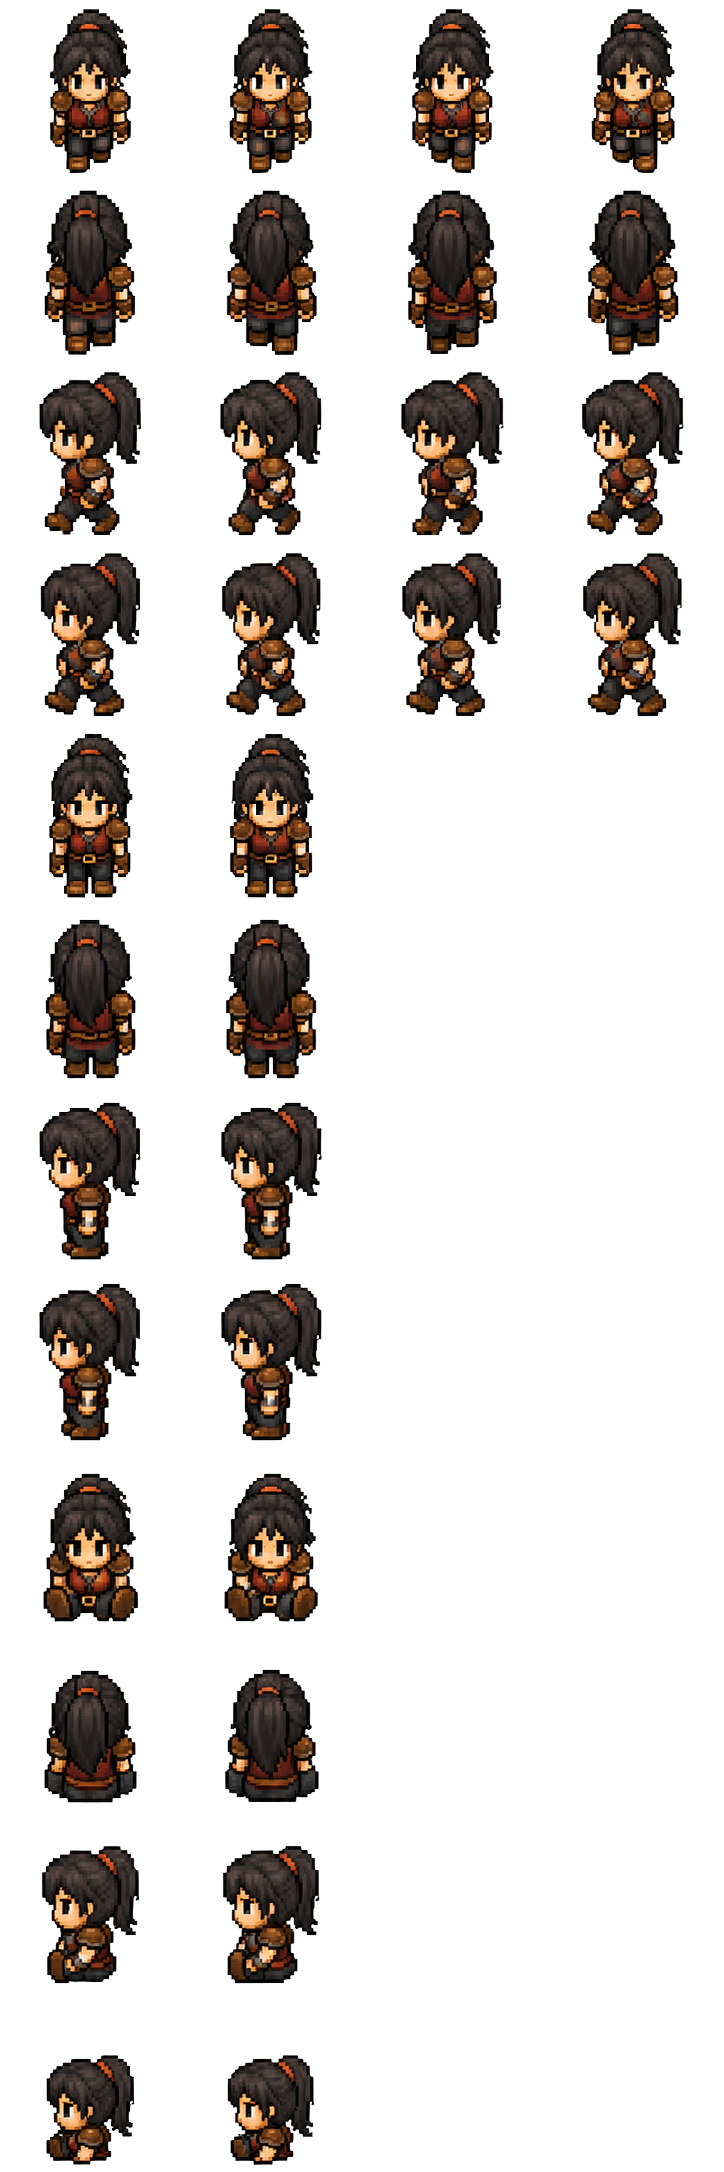
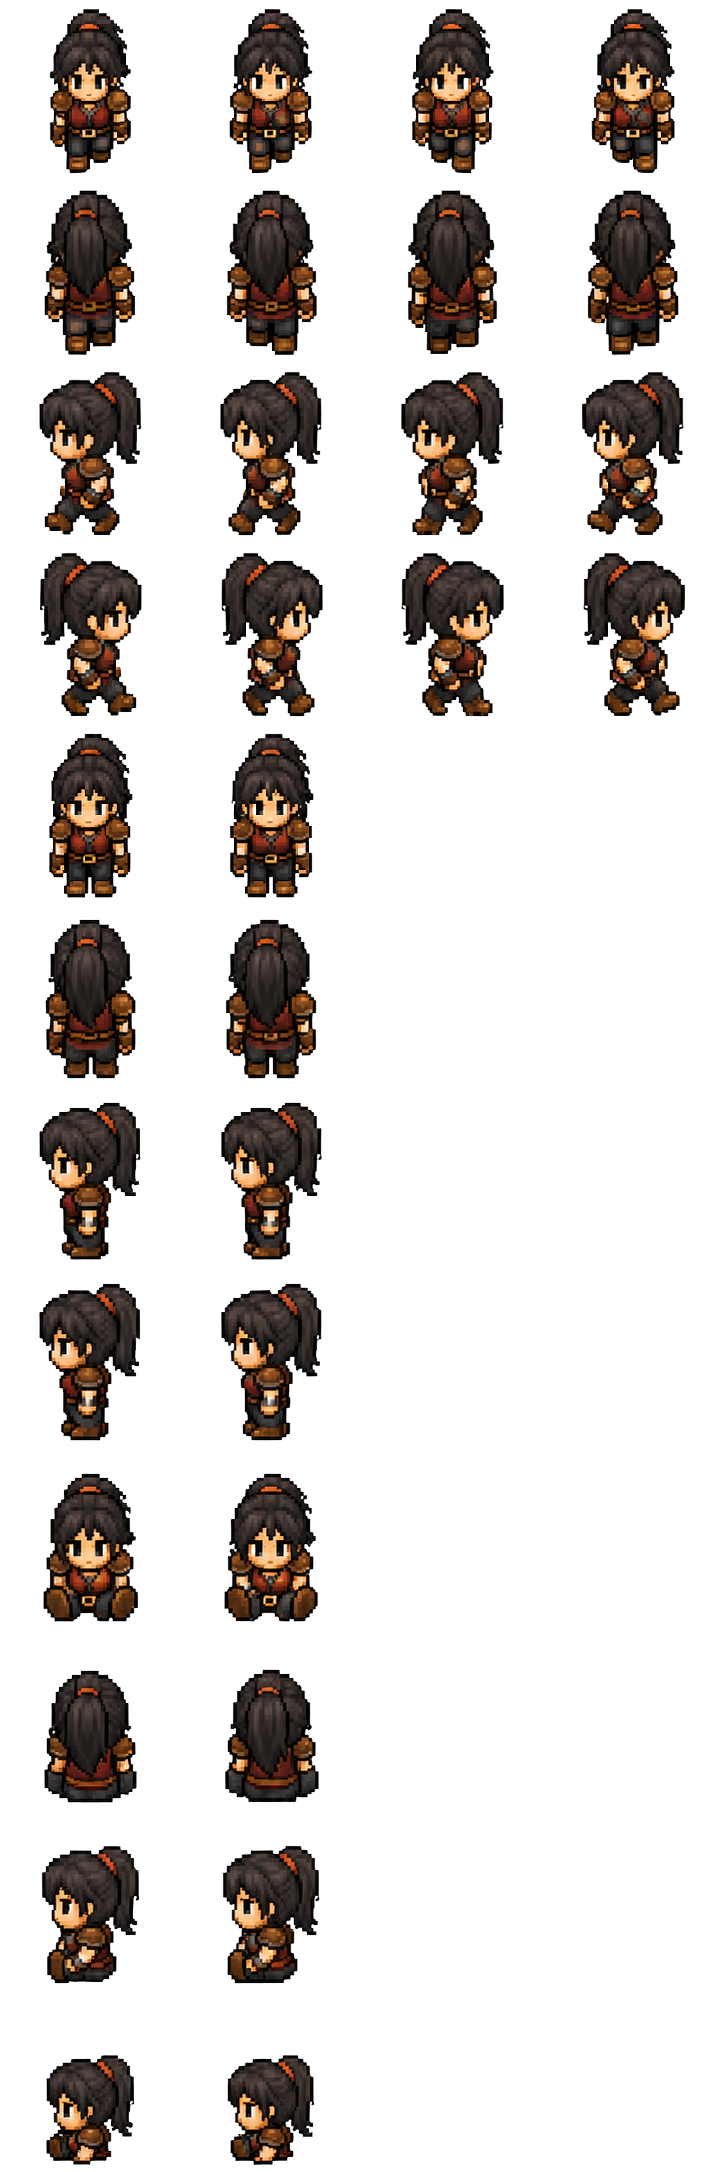
Add multiplayer chairs minimap and girl walk fix

diff --git a/client/js/scene.js b/client/js/scene.js
@@ -105,6 +105,7 @@ export class LibraryScene extends Phaser.Scene {
       });
     }
     for (const ch of FF_CHAIRS) this.chairs.push({ ...ch, seatOffsetX: 0 });
+    this.chairs.forEach((chair, index) => { chair.id = `chair-${index}`; });
 
     this.createAnims();
 
@@ -116,6 +117,15 @@ export class LibraryScene extends Phaser.Scene {
     this.setupInput();
     this.setupCamera();
   }
+
+  requestSit(chair) {
+    network.sit(chair, ({ ok }) => {
+      if (ok && !this.player.sitting) this.player.sit(chair);
+      else if (!ok) window.dispatchEvent(new CustomEvent('chair-unavailable'));
+    });
+  }
+
+  releaseChair(state) { network.stand(state); }
 
   // Render one Tiled map at a tile offset, with per-layer depth and collision.
   // opts.carpetCols: columns whose runner tiles (on a collision layer) stay walkable.
@@ -188,21 +198,43 @@ export class LibraryScene extends Phaser.Scene {
     let remote = this.remotePlayers.get(player.id);
     if (!remote) {
       const sprite = this.add.sprite(x, y, player.avatar, 16).setOrigin(0.5, 1).setScale(0.44).setDepth(1000);
+      const overlay = this.add.sprite(x, y, player.avatar, 16).setOrigin(0.5, 1).setScale(0.44).setVisible(false);
       const label = this.add.text(x, y - 78, player.name, {
         fontFamily: 'Arial', fontSize: '9px', color: '#ffffff', backgroundColor: '#4338ca', padding: { x: 3, y: 2 },
       }).setOrigin(0.5, 1).setDepth(1001);
-      remote = { sprite, label };
+      const dot = this.add.circle(x, y, 7, 0xf59e0b).setDepth(2000);
+      this.cameras.main.ignore(dot);
+      this.minimapCamera?.ignore([sprite, overlay, label]);
+      remote = { sprite, overlay, label, dot };
       this.remotePlayers.set(player.id, remote);
     }
     remote.sprite.setTexture(player.avatar);
-    this.tweens.killTweensOf([remote.sprite, remote.label]);
+    remote.overlay.setTexture(player.avatar);
+    const chair = player.sitting ? this.chairs.find((item) => item.id === player.chairId) : null;
+    if (chair) {
+      const seatX = (chair.c + ((chair.width || 1) - 1) / 2) * TILE + TILE / 2 + (chair.seatOffsetX || 0);
+      const baseY = (chair.r + 1) * TILE;
+      const seatY = chair.facing === 'up' ? baseY - TILE - 12 : baseY - 12;
+      remote.sprite.setPosition(seatX, seatY).setDepth(chair.facing === 'up' ? 1000 : 2.5)
+        .play(`${player.avatar}-sit-${chair.facing}`, true);
+      remote.overlay.setVisible(chair.facing === 'down').setPosition(seatX, seatY).setDepth(3.5)
+        .setCrop(0, 0, 181, 105);
+      if (chair.facing === 'down') remote.overlay.play(`${player.avatar}-sit-${chair.facing}`, true);
+      remote.label.setPosition(seatX, seatY - 78);
+      remote.dot.setPosition(seatX, seatY);
+      return;
+    }
+    remote.overlay.setVisible(false).setCrop();
+    this.tweens.killTweensOf([remote.sprite, remote.label, remote.dot]);
     if (player.moving) {
       remote.sprite.play(`${player.avatar}-walk-${player.facing}`, true);
       this.tweens.add({ targets: remote.sprite, x, y, duration: 150, ease: 'Linear' });
       this.tweens.add({ targets: remote.label, x, y: y - 78, duration: 150, ease: 'Linear' });
+      this.tweens.add({ targets: remote.dot, x, y, duration: 150, ease: 'Linear' });
     } else {
       remote.sprite.setPosition(x, y).play(`${player.avatar}-idle-${player.facing}`, true);
       remote.label.setPosition(x, y - 78);
+      remote.dot.setPosition(x, y);
     }
   }
 
@@ -210,7 +242,9 @@ export class LibraryScene extends Phaser.Scene {
     const remote = this.remotePlayers.get(id);
     if (!remote) return;
     remote.sprite.destroy();
+    remote.overlay.destroy();
     remote.label.destroy();
+    remote.dot.destroy();
     this.remotePlayers.delete(id);
   }
 
@@ -300,7 +334,7 @@ export class LibraryScene extends Phaser.Scene {
       if (chair) {
         const path = this.findChairApproach(chair);
         if (path.length) this.player.followPath(path, chair);
-        else if (!this.player.moving) this.player.sit(chair);
+        else if (!this.player.moving) this.requestSit(chair);
         return;
       }
       const path = this.findPath(this.player.c, this.player.r, c, r);
@@ -323,6 +357,7 @@ export class LibraryScene extends Phaser.Scene {
       this.minZoom = Math.max(sw / this.worldW, sh / this.worldH);
       cam.setZoom(Phaser.Math.Clamp(cam.zoom, this.minZoom, 2));
       this.updateCamera(true);
+      if (this.minimapCamera) this.minimapCamera.setViewport(18, sh - 178, 160, 160);
     };
     this.applyViewport();
     this.scale.on('resize', this.applyViewport);
@@ -330,6 +365,17 @@ export class LibraryScene extends Phaser.Scene {
       cam.setZoom(Phaser.Math.Clamp(cam.zoom - dy * 0.0015, this.minZoom, 2));
       this.updateCamera(true);
     });
+
+    this.minimapCamera = this.cameras.add(18, this.scale.height - 178, 160, 160)
+      .setBackgroundColor(0x171321)
+      .setZoom(Math.min(148 / this.worldW, 148 / this.worldH));
+    this.minimapCamera.centerOn(this.worldW / 2, this.worldH / 2);
+    this.minimapCamera.ignore([this.player.sprite, this.player.seatedOverlay].filter(Boolean));
+    for (const remote of this.remotePlayers.values()) {
+      this.minimapCamera.ignore([remote.sprite, remote.overlay, remote.label]);
+    }
+    this.localDot = this.add.circle(this.player.sprite.x, this.player.sprite.y, 7, 0x22c55e).setDepth(2000);
+    cam.ignore(this.localDot);
   }
 
   updateCamera(immediate = false) {
@@ -354,6 +400,7 @@ export class LibraryScene extends Phaser.Scene {
 
   update() {
     if (this.player) this.player.update();
+    if (this.localDot && this.player) this.localDot.setPosition(this.player.sprite.x, this.player.sprite.y);
     if (this.player) this.updateCamera();
   }
 }

diff --git a/test/multiplayer-smoke.js b/test/multiplayer-smoke.js
@@ -1,0 +1,41 @@
+const assert = require('assert');
+
+function connect(name) {
+  return new Promise((resolve, reject) => {
+    const ws = new WebSocket('ws://localhost:3000/socket.io/?EIO=4&transport=websocket');
+    let ready = false;
+    ws.onmessage = ({ data }) => {
+      if (data.startsWith('0')) ws.send('40');
+      else if (data.startsWith('40') && !ready) {
+        ready = true;
+        ws.send(`42["player:join",{"name":"${name}","avatar":"male"}]`);
+        resolve(ws);
+      } else if (data === '2') ws.send('3');
+    };
+    ws.onerror = reject;
+  });
+}
+
+function sit(ws, packetId) {
+  return new Promise((resolve) => {
+    const handler = ({ data }) => {
+      if (!data.startsWith(`43${packetId}`)) return;
+      ws.removeEventListener('message', handler);
+      resolve(JSON.parse(data.slice(String(packetId).length + 2))[0]);
+    };
+    ws.addEventListener('message', handler);
+    ws.send(`42${packetId}["chair:sit",{"chairId":"chair-test","c":1,"r":1,"facing":"down"}]`);
+  });
+}
+
+(async () => {
+  const first = await connect('First');
+  const second = await connect('Second');
+  assert.equal((await sit(first, 1)).ok, true);
+  assert.equal((await sit(second, 2)).ok, false);
+  first.close();
+  await new Promise((resolve) => setTimeout(resolve, 100));
+  assert.equal((await sit(second, 3)).ok, true);
+  second.close();
+  console.log('multiplayer chair lock smoke test passed');
+})().catch((error) => { console.error(error); process.exitCode = 1; });

diff --git a/server.js b/server.js
@@ -10,6 +10,7 @@ const server = http.createServer(app);
 const io = new Server(server);
 const PORT = process.env.PORT || 3000;
 const players = new Map();
+const occupiedChairs = new Map();
 
 // The game client (index.html, css, js).
 app.use(express.static(path.join(__dirname, 'client')));
@@ -55,7 +56,40 @@ io.on('connection', (socket) => {
     socket.broadcast.emit('player:moved', player);
   });
 
+  socket.on('chair:sit', (next = {}, reply = () => {}) => {
+    const player = players.get(socket.id);
+    const chairId = String(next.chairId || '');
+    if (!player || !chairId || (occupiedChairs.has(chairId) && occupiedChairs.get(chairId) !== socket.id)) {
+      reply({ ok: false });
+      return;
+    }
+    if (player.chairId) occupiedChairs.delete(player.chairId);
+    occupiedChairs.set(chairId, socket.id);
+    Object.assign(player, {
+      chairId, sitting: true, moving: false,
+      c: Number(next.c), r: Number(next.r),
+      facing: ['up', 'down'].includes(next.facing) ? next.facing : 'down',
+    });
+    reply({ ok: true });
+    socket.broadcast.emit('player:seated', player);
+  });
+
+  socket.on('chair:stand', (next = {}) => {
+    const player = players.get(socket.id);
+    if (!player) return;
+    if (player.chairId) occupiedChairs.delete(player.chairId);
+    Object.assign(player, {
+      chairId: null, sitting: false,
+      c: Number.isFinite(next.c) ? next.c : player.c,
+      r: Number.isFinite(next.r) ? next.r : player.r,
+      facing: ['up', 'down', 'left', 'right'].includes(next.facing) ? next.facing : player.facing,
+    });
+    socket.broadcast.emit('player:stood', player);
+  });
+
   socket.on('disconnect', () => {
+    const player = players.get(socket.id);
+    if (player?.chairId) occupiedChairs.delete(player.chairId);
     if (players.delete(socket.id)) io.emit('player:left', socket.id);
   });
 });

diff --git a/client/css/style.css b/client/css/style.css
@@ -236,3 +236,13 @@ body.has-people-panel #game-container { margin-left: 336px; width: calc(100% - 3
 .person-row strong, .person-row small { display: block; }
 .person-row strong { max-width: 180px; overflow: hidden; text-overflow: ellipsis; white-space: nowrap; font-size: 14px; }
 .person-row small { margin-top: 2px; color: #16a34a; font-size: 12px; }
+.minimap-frame {
+  position: fixed; left: 354px; bottom: 18px; z-index: 18; width: 160px; height: 160px;
+  pointer-events: none; border: 3px solid rgba(255,255,255,.9); border-radius: 18px;
+  box-shadow: 0 10px 28px rgba(0,0,0,.42), inset 0 0 0 1px rgba(0,0,0,.25);
+}
+.minimap-frame[hidden] { display: none; }
+.minimap-frame span {
+  position: absolute; left: 10px; bottom: 8px; padding: 3px 7px; border-radius: 999px;
+  background: rgba(20,20,28,.8); color: #fff; font-size: 10px; font-weight: 700;
+}

diff --git a/client/js/network.js b/client/js/network.js
@@ -19,6 +19,10 @@ socket.on('player:moved', (player) => {
   players.set(player.id, player);
   scene?.upsertRemotePlayer(player, socket.id);
 });
+for (const event of ['player:seated', 'player:stood']) socket.on(event, (player) => {
+  players.set(player.id, player);
+  scene?.upsertRemotePlayer(player, socket.id);
+});
 socket.on('player:left', (id) => {
   players.delete(id);
   scene?.removeRemotePlayer(id);
@@ -31,6 +35,12 @@ export const network = {
     socket.emit('player:join', profile);
   },
   move(state) { socket.emit('player:move', state); },
+  sit(chair, reply) {
+    socket.emit('chair:sit', {
+      chairId: chair.id, c: chair.c, r: chair.r, facing: chair.facing,
+    }, reply);
+  },
+  stand(state) { socket.emit('chair:stand', state); },
   attachScene(nextScene) {
     scene = nextScene;
     scene.syncRemotePlayers([...players.values()], socket.id);

diff --git a/client/js/player.js b/client/js/player.js
@@ -87,7 +87,7 @@ export class Player {
         if (!this.path.length && this.pendingChair) {
           const chair = this.pendingChair;
           this.pendingChair = null;
-          this.sit(chair);
+          this.scene.requestSit(chair);
         }
         // TODO(step2 – multiplayer): broadcast new tile position.
       },
@@ -118,7 +118,7 @@ export class Player {
 
     const target = this.findNearbyChair(chairs);
     if (!target) return;
-    this.sit(target);
+    this.scene.requestSit(target);
   }
 
   findNearbyChair(chairs = this.scene.chairs) {
@@ -181,6 +181,7 @@ export class Player {
       this.seatedOverlay.setCrop();
     }
     this.playDir('idle', this.facing);
+    this.scene.releaseChair?.({ c: this.c, r: this.r, facing: this.facing });
     window.dispatchEvent(new CustomEvent('player-stood'));
   }
 

diff --git a/client/index.html b/client/index.html
@@ -39,6 +39,7 @@
       <div id="people-list" class="people-list"></div>
     </section>
   </aside>
+  <div id="minimap-frame" class="minimap-frame" hidden><span>You</span></div>
 
   <!-- Phaser injects its canvas here. -->
   <div id="game-container"></div>

diff --git a/client/js/joinScreen.js b/client/js/joinScreen.js
@@ -16,6 +16,7 @@ export function initJoinScreen() {
     network.join({ name, avatar });
     screen.hidden = true;
     document.getElementById('people-panel').hidden = false;
+    document.getElementById('minimap-frame').hidden = false;
     document.body.classList.add('has-people-panel');
     window.dispatchEvent(new Event('resize'));
   });